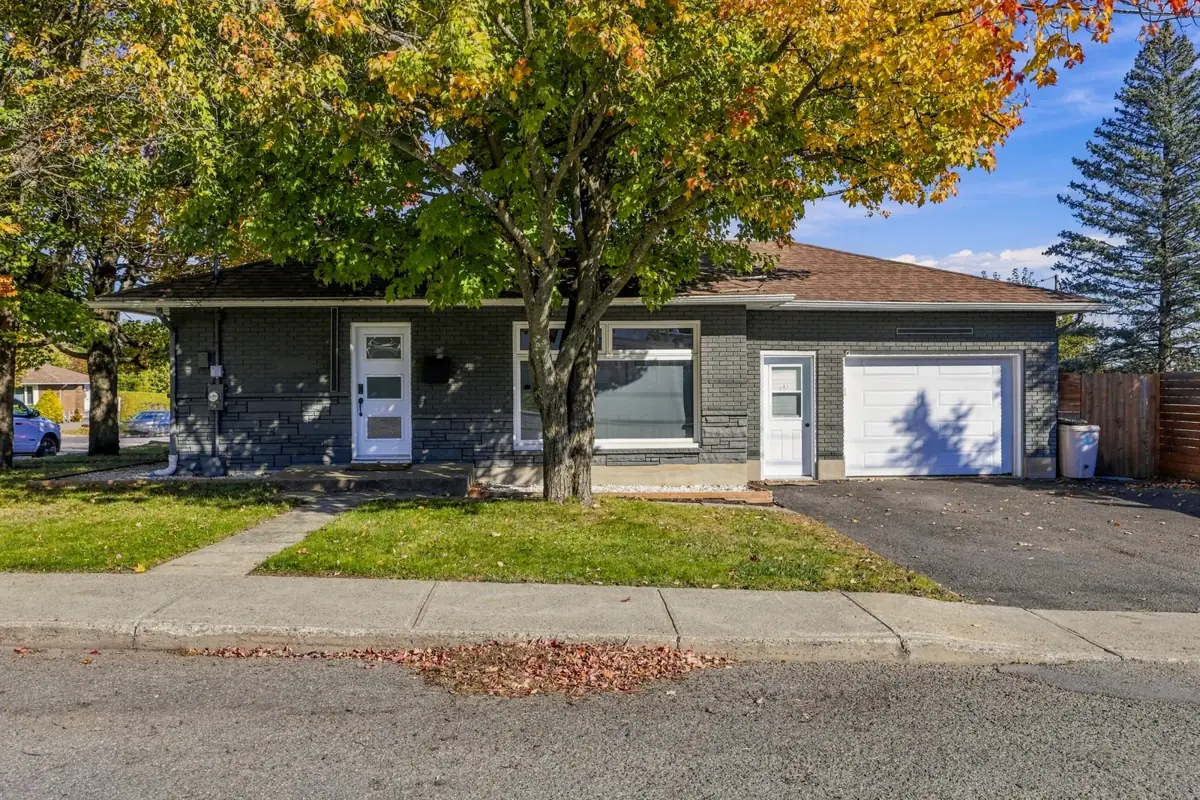
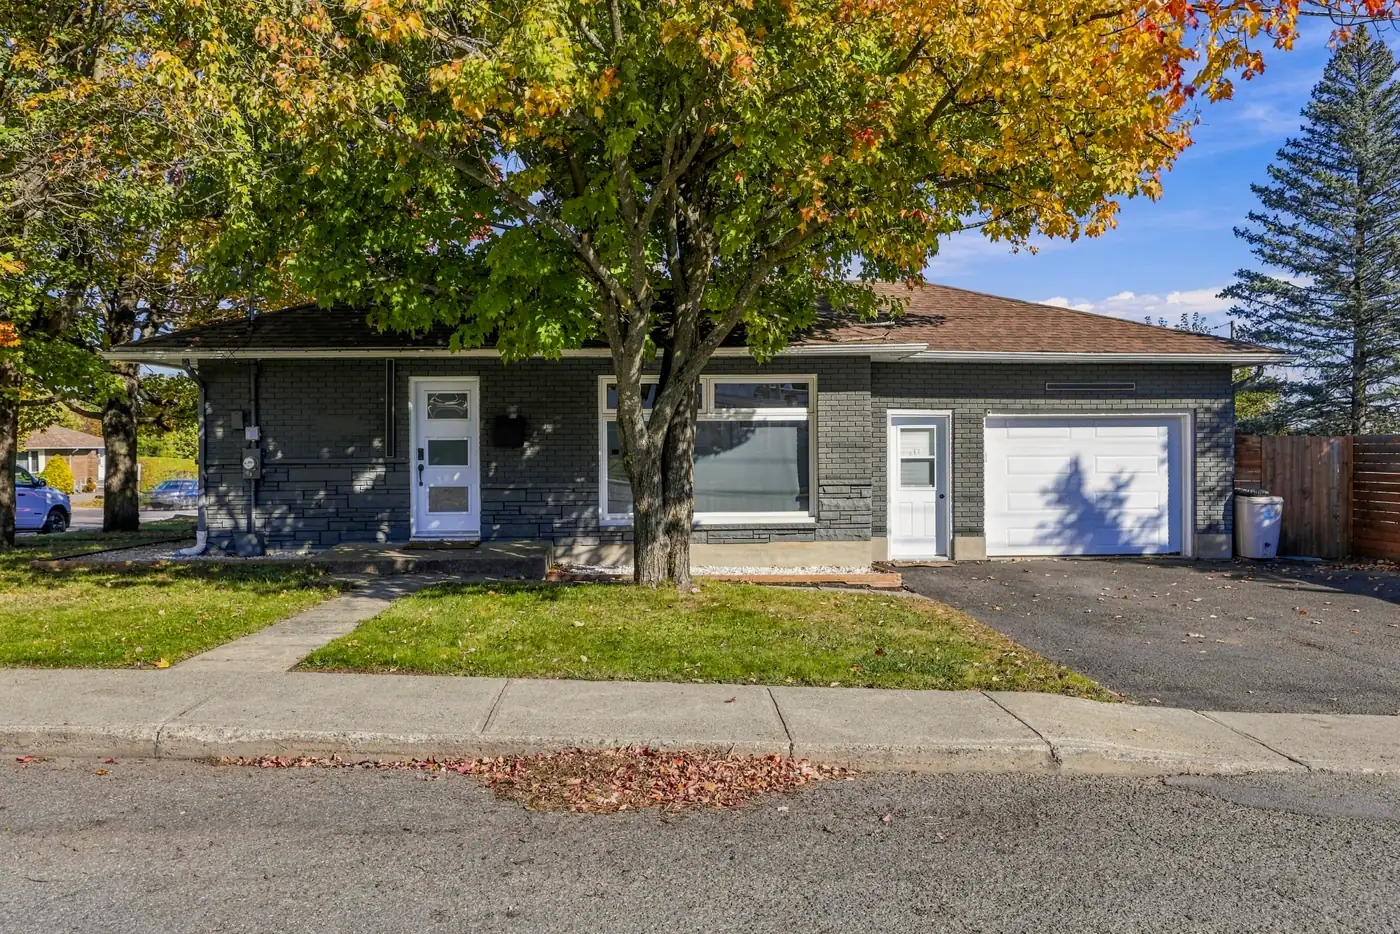
Vendre FR/EN : révision niveau agence + titres dans la voix de Yanis (#119)
* Révision niveau agence: questions sans carte (réponse alignée), photo pleine hauteur bord à bord, bande de photos bord à bord pour les étapes

Claude-Session: https://claude.ai/code/session_019z7BX1MZHCZym3S4A84rNB

* Vendre FR/EN: titres de section dans la voix de Yanis (H1, titre et description inchangés)

Claude-Session: https://claude.ai/code/session_019z7BX1MZHCZym3S4A84rNB

* Photo bungalow allégée

Claude-Session: https://claude.ai/code/session_019z7BX1MZHCZym3S4A84rNB

---------

Changed region(s): [[0.9558, 0.0, 0.9867, 0.0312], [0.8633, 0.0, 0.8942, 0.0312], [0.74, 0.2188, 0.7708, 0.25]]

diff --git a/src/components/CardGrid.tsx b/src/components/CardGrid.tsx
@@ -51,6 +51,22 @@ const CardGrid = ({
 }: CardGridProps) => {
   const bg = background === "alt" ? "bg-[var(--cream)]" : background === "white" ? "bg-white" : "bg-background";
   const [open, setOpen] = React.useState(0);
+  const selectRef = React.useRef<HTMLDivElement>(null);
+  const rowRefs = React.useRef<(HTMLButtonElement | null)[]>([]);
+  const [answerY, setAnswerY] = React.useState(0);
+
+  React.useLayoutEffect(() => {
+    if (layout !== "select") return;
+    const place = () => {
+      const grid = selectRef.current;
+      const row = rowRefs.current[open];
+      if (!grid || !row || !window.matchMedia("(min-width: 1024px)").matches) return setAnswerY(0);
+      setAnswerY(row.getBoundingClientRect().top - grid.getBoundingClientRect().top + 24);
+    };
+    place();
+    window.addEventListener("resize", place);
+    return () => window.removeEventListener("resize", place);
+  }, [layout, open]);
   const trackRef = React.useRef<HTMLDivElement>(null);
   const [active, setActive] = React.useState(0);
   const strikeRef = React.useRef<HTMLDivElement>(null);
@@ -79,44 +95,46 @@ const CardGrid = ({
       <section className={`section-padding ${bg}`}>
         <div className="section-container">
           <h2 className="max-w-[36rem]">{title}</h2>
-          <div className="mt-8 lg:mt-14 lg:grid lg:grid-cols-12 lg:gap-x-10">
+          <div ref={selectRef} className="relative mt-8 lg:mt-16 lg:grid lg:grid-cols-12 lg:gap-x-10">
             {items.map((item, i) => {
               const active = open === i;
               return (
                 <React.Fragment key={item.title}>
-                  <Title className="border-t border-[rgba(0,14,53,0.12)] lg:col-span-6 lg:col-start-1" style={{ gridRow: i + 1 }}>
+                  <Title
+                    className="border-t border-[rgba(0,14,53,0.12)] last-of-type:border-b lg:col-span-6 lg:col-start-1"
+                    style={{ gridRow: i + 1 }}
+                  >
                     <button
                       type="button"
+                      ref={(el) => (rowRefs.current[i] = el)}
                       aria-expanded={active}
                       aria-controls={`cg-answer-${i}`}
                       onClick={() => setOpen(i)}
                       onMouseEnter={() => setOpen(i)}
                       onFocus={() => setOpen(i)}
-                      className={`group flex w-full items-start justify-between gap-6 py-6 text-left [font-family:var(--display)] text-[1.5rem] font-semibold leading-[1.12] tracking-[-0.03em] transition-colors duration-200 lg:py-8 lg:text-[clamp(1.625rem,2.5vw,2.375rem)] ${
+                      className={`flex w-full items-baseline justify-between gap-6 py-6 text-left [font-family:var(--display)] text-[1.5rem] font-semibold leading-[1.1] tracking-[-0.035em] transition-colors duration-200 lg:py-7 lg:text-[clamp(1.75rem,2.6vw,2.5rem)] ${
                         active ? "text-[var(--ink)]" : "text-[rgba(0,14,53,0.5)] hover:text-[var(--ink)]"
                       }`}
                     >
                       <span>{item.title}</span>
-                      {active ? (
-                        <span aria-hidden="true" className="mt-2 inline-block h-3 w-3 shrink-0 rounded-full bg-[var(--action)] lg:mt-4" />
-                      ) : (
-                        <span aria-hidden="true" className="mt-0.5 shrink-0 text-[1.75rem] font-light leading-none text-[rgba(0,14,53,0.45)] lg:invisible">+</span>
-                      )}
+                      <span aria-hidden="true" className="relative h-4 w-4 shrink-0 lg:hidden">
+                        <span className="absolute left-0 top-1/2 h-[1.5px] w-4 -translate-y-1/2 bg-current" />
+                        <span className={`absolute left-1/2 top-0 h-4 w-[1.5px] -translate-x-1/2 bg-current transition-transform duration-200 ${active ? "scale-y-0" : "scale-y-100"}`} />
+                      </span>
                     </button>
                   </Title>
                   <div
                     id={`cg-answer-${i}`}
+                    className={`${active ? "block" : "hidden"} pb-8 lg:col-span-5 lg:col-start-8 lg:row-start-1 lg:pb-0`}
                     style={{ gridRow: `1 / span ${items.length}` }}
-                    className={`${active ? "block" : "hidden"} pb-7 lg:col-span-5 lg:col-start-8 lg:self-start lg:pb-0`}
                   >
-                    <div className="lg:sticky lg:top-28 lg:rounded-[1.5rem] lg:bg-[var(--ink)] lg:p-12">
-                      <p className={`text-[1rem] leading-[1.65] text-[#4A5475] lg:[font-family:var(--display)] ${item.text.split(" ").length > 32 ? "lg:text-[1.3125rem]" : "lg:text-[1.625rem]"} lg:font-medium lg:leading-[1.35] lg:tracking-[-0.02em] lg:text-[var(--cream)]`}>
+                    <div
+                      className="lg:border-l-2 lg:border-[var(--action)] lg:pl-8 lg:transition-transform lg:duration-300 lg:ease-[cubic-bezier(0.22,1,0.36,1)]"
+                      style={{ transform: answerY ? `translateY(${answerY}px)` : undefined }}
+                    >
+                      <p className={`max-w-[30rem] text-[1rem] leading-[1.65] text-[#4A5475] lg:[font-family:var(--display)] lg:font-medium lg:leading-[1.4] lg:tracking-[-0.015em] lg:text-[var(--ink)] ${item.text.split(" ").length > 32 ? "lg:text-[1.25rem]" : "lg:text-[1.5rem]"}`}>
                         {item.text}
                       </p>
-                      <div className="mt-10 hidden items-center gap-3 border-t border-[rgba(247,244,238,0.14)] pt-6 lg:flex">
-                        <img src={yanisAvatar} alt="" width={40} height={40} loading="lazy" className="h-10 w-10 rounded-full object-cover" />
-                        <span className="text-[0.875rem] font-medium text-[rgba(247,244,238,0.78)]">Yanis Gauthier-Sigeris</span>
-                      </div>
                     </div>
                   </div>
                 </React.Fragment>
@@ -130,45 +148,48 @@ const CardGrid = ({
 
   if (layout === "strike") {
     return (
-      <section className={`section-padding ${bg}`}>
-        <div className="section-container lg:grid lg:grid-cols-12 lg:gap-x-10">
-          {image && (
-            <div className="lg:col-span-5">
-              <img
-                src={image.src}
-                alt={image.alt}
-                width={image.width}
-                height={image.height}
-                loading="lazy"
-                decoding="async"
-                className="aspect-[16/10] w-full rounded-[1.25rem] object-cover lg:sticky lg:top-28 lg:aspect-[4/5] lg:rounded-[1.5rem]"
-              />
-            </div>
-          )}
-          <div ref={strikeRef} className={`mt-10 lg:mt-0 ${image ? "lg:col-span-6 lg:col-start-7" : "lg:col-span-12"}`}>
-            <h2 className="max-w-[36rem]">{title}</h2>
-            <div className="mt-8 lg:mt-12">
-              {items.map((item, i) => (
-                <div key={item.title} className="border-t border-[rgba(0,14,53,0.12)] py-7 lg:py-9">
-                  <Title className="[font-family:var(--display)] text-[2.5rem] font-semibold leading-[1] tracking-[-0.045em] text-[var(--ink)] lg:text-[clamp(3rem,5.2vw,4.75rem)]">
-                    <span className="relative inline-block">
-                      {item.title}
-                      <span
-                        aria-hidden="true"
-                        style={{ transitionDelay: `${i * 160}ms` }}
-                        className={`strike-line absolute left-[-0.04em] right-[-0.04em] top-[54%] h-[0.075em] origin-left rounded-full bg-[var(--action)] transition-transform duration-[700ms] ease-[cubic-bezier(0.65,0,0.35,1)] ${drawn ? "scale-x-100" : "scale-x-0"}`}
-                      />
-                    </span>
-                  </Title>
-                  <p className="mt-4 max-w-[30rem] text-[1rem] leading-[1.6] text-[#4A5475] lg:text-[1.0625rem]">{item.text}</p>
-                </div>
-              ))}
-            </div>
+      <section className={`${bg} lg:grid lg:grid-cols-2`}>
+        {image && (
+          <div className="relative aspect-[4/3] lg:aspect-auto">
+            <img
+              src={image.src}
+              alt={image.alt}
+              width={image.width}
+              height={image.height}
+              loading="lazy"
+              decoding="async"
+              className="absolute inset-0 h-full w-full object-cover object-[50%_35%]"
+            />
+          </div>
+        )}
+        <div
+          ref={strikeRef}
+          className={`px-5 sm:px-6 md:px-8 ${image ? "lg:pl-20 lg:pr-[max(2rem,calc((100vw-1240px)/2+2rem))]" : ""}`}
+          style={{ paddingTop: "var(--section-padding-lg)", paddingBottom: "var(--section-padding-lg)" }}
+        >
+          <h2 className="max-w-[30rem]">{title}</h2>
+          <div className="mt-10 lg:mt-14">
+            {items.map((item, i) => (
+              <div key={item.title} className={i > 0 ? "mt-10 lg:mt-14" : ""}>
+                <Title className="[font-family:var(--display)] text-[2.75rem] font-semibold leading-[0.95] tracking-[-0.05em] text-[var(--ink)] lg:text-[clamp(3.25rem,5vw,5rem)]">
+                  <span className="relative inline-block">
+                    {item.title}
+                    <span
+                      aria-hidden="true"
+                      style={{ transitionDelay: `${i * 180}ms` }}
+                      className={`strike-line absolute left-[-0.03em] right-[-0.03em] top-[52%] h-[3px] origin-left bg-[var(--action)] transition-transform duration-[650ms] ease-[cubic-bezier(0.65,0,0.35,1)] lg:h-[4px] ${drawn ? "scale-x-100" : "scale-x-0"}`}
+                    />
+                  </span>
+                </Title>
+                <p className="mt-4 max-w-[28rem] text-[1.0625rem] leading-[1.55] text-[#4A5475]">{item.text}</p>
+              </div>
+            ))}
           </div>
         </div>
       </section>
     );
   }
+
 
   const spans = layoutFor(items.length);
 

diff --git a/src/components/ProcessSteps.tsx b/src/components/ProcessSteps.tsx
@@ -14,7 +14,7 @@ interface ProcessStepsProps {
   background?: "default" | "alt" | "white";
   /** Fond bleu nuit pour créer une pause visuelle dans la page. */
   tone?: "default" | "night";
-  /** Optional real photo per step: steps then descend like a staircase. */
+  /** Optional real photo per step: edge-to-edge photo strip. */
   images?: { src: string; alt: string; width: number; height: number }[];
 }
 
@@ -30,6 +30,35 @@ const ProcessSteps = ({
   const lang = useLanguage();
   const resolvedOverline = overline ?? (lang === "en" ? "The process" : "Le processus");
   const resolvedTitle = title ?? (lang === "en" ? "How it works" : "Comment ça fonctionne");
+  if (images) {
+    return (
+      <section className={`section-padding ${night ? "process-night" : background === "alt" ? "bg-[var(--cream)]" : background === "white" ? "bg-white" : "bg-background"}`}>
+        <div className="section-container">
+          <h2 className="max-w-[40rem]" style={night ? { color: "var(--cream)" } : undefined}>{resolvedTitle}</h2>
+        </div>
+        <ol className="mt-10 flex snap-x snap-mandatory gap-[3px] overflow-x-auto lg:mt-14 lg:grid lg:grid-cols-3 lg:overflow-visible">
+          {steps.map((s, i) => (
+            <li key={s.num} className="w-[86vw] shrink-0 snap-start lg:w-auto">
+              <img
+                src={images[i]?.src}
+                alt={images[i]?.alt ?? ""}
+                width={images[i]?.width}
+                height={images[i]?.height}
+                loading="lazy"
+                decoding="async"
+                className="aspect-[4/5] w-full object-cover lg:aspect-[5/6]"
+              />
+              <div className={`px-5 pt-7 sm:px-6 lg:pr-10 ${i === 0 ? "lg:pl-[max(2rem,calc((100vw-1240px)/2+2rem))]" : "lg:pl-10"}`}>
+                <p aria-hidden="true" className="[font-family:var(--display)] text-[0.9375rem] font-semibold tabular-nums text-[var(--action)]">{i + 1}</p>
+                <h3 className="mt-2 [font-family:var(--display)] text-[1.625rem] font-semibold leading-[1.1] tracking-[-0.03em] lg:text-[1.875rem]" style={night ? { color: "var(--cream)" } : undefined}>{s.title}</h3>
+                <p className={`mt-3 max-w-[24rem] text-[0.9375rem] leading-[1.6] ${night ? "text-[rgba(247,244,238,0.78)]" : "text-muted-foreground"}`}>{s.desc}</p>
+              </div>
+            </li>
+          ))}
+        </ol>
+      </section>
+    );
+  }
   return (
   <section className={`section-padding ${night ? "process-night" : background === "alt" ? "bg-[var(--cream)]" : background === "white" ? "bg-white" : "bg-background"}`}>
     <div className="section-container">
@@ -38,31 +67,6 @@ const ProcessSteps = ({
       >
         <SectionHeading overline={resolvedOverline} title={resolvedTitle} />
       </div>
-      {images ? (
-        <ol className="scroll-px-5 sm:scroll-px-6 md:scroll-px-8 lg:scroll-px-0 -mx-5 flex snap-x snap-mandatory gap-4 overflow-x-auto px-5 pb-2 sm:-mx-6 sm:px-6 md:-mx-8 md:px-8 lg:mx-0 lg:grid lg:grid-cols-3 lg:gap-8 lg:overflow-visible lg:px-0 lg:pb-0">
-          {steps.map((s, i) => (
-            <li
-              key={s.num}
-              className={`w-[78%] max-w-[20rem] shrink-0 snap-start sm:w-[55%] lg:w-auto lg:max-w-none ${i === 1 ? "lg:mt-24" : i === 2 ? "lg:mt-48" : ""}`}
-            >
-              <img
-                src={images[i]?.src}
-                alt={images[i]?.alt ?? ""}
-                width={images[i]?.width}
-                height={images[i]?.height}
-                loading="lazy"
-                decoding="async"
-                className="aspect-[4/5] w-full rounded-[1.25rem] object-cover lg:rounded-[1.5rem]"
-              />
-              <div className="mt-6 flex items-baseline gap-4">
-                <span aria-hidden="true" className="[font-family:var(--display)] text-[0.9375rem] font-semibold tabular-nums text-[var(--action)]">{s.num}</span>
-                <h3 className="text-[1.375rem] lg:text-[1.5rem]" style={night ? { color: "var(--cream)" } : undefined}>{s.title}</h3>
-              </div>
-              <p className={`mt-3 text-[0.9375rem] leading-[1.6] ${night ? "text-[rgba(247,244,238,0.78)]" : "text-muted-foreground"}`}>{s.desc}</p>
-            </li>
-          ))}
-        </ol>
-      ) : (
       <div className="grid gap-6 sm:gap-7 sm:grid-cols-3">
         {steps.map((s, i) => (
           <div
@@ -75,7 +79,6 @@ const ProcessSteps = ({
           </div>
         ))}
       </div>
-      )}
     </div>
   </section>
   );

diff --git a/src/pages/en/SellerPageEn.tsx b/src/pages/en/SellerPageEn.tsx
@@ -64,7 +64,7 @@ const SellerPageEn = () => (
     heroBgImage={heroImg} />
 
     <ContentBlock narrow split background="alt">
-      <SectionHeading overline="Local strategy" title="Adapting your sale to your local market" />
+      <SectionHeading overline="Local strategy" title="Pricing starts with sales in your area, not a regional average" />
       <p className="prose-body mt-5" style={{ lineHeight: 1.85 }}>
         A house in Aylmer doesn't compare to one in Buckingham, and a condo doesn't sell like a single-family home. Before we talk price, I look at what sold near you, in your type of property, over the last few months.
       </p>
@@ -76,15 +76,16 @@ const SellerPageEn = () => (
       </p>
     </ContentBlock>
 
-<CardGrid background="white" overline="Your questions" title="You're probably asking yourself these questions" items={painPoints} variant="icon-inline" layout="select" />
+<CardGrid background="white" overline="Your questions" title="Four questions to settle before you list" items={painPoints} variant="icon-inline" layout="select" />
     <InlineCTA text="First step: find out what your property is worth. It's free, with no commitment." buttonLabel="Free Home Valuation →" href="/en/home-valuation/" />
-    <CardGrid title="What sellers want to avoid" items={fears} columns={3} background="alt" variant="icon-top" layout="strike" image={{ src: photoWinter, alt: "Bungalow in Gatineau in the fall", width: 1200, height: 800 }} />
+    <CardGrid title="Three mistakes that cost sellers money" items={fears} columns={3} background="alt" variant="icon-top" layout="strike" image={{ src: photoWinter, alt: "Bungalow in Gatineau in the fall", width: 1400, height: 933 }} />
     <ContentBlock narrow split>
-      <SectionHeading overline="Before selling" title="Know where you stand first" />
+      <SectionHeading overline="Before selling" title="Start by finding out what your home is worth" />
       <p className="prose-body mt-5">Before selling, you probably want to know one thing: what your home is worth, with no pressure. We start there. Then we look at your timing and at what the market in your area allows.</p>
       <p className="prose-body mt-4">I've been helping sellers across the Outaouais since 2017, and I know a good sale takes preparation. It all begins with a value based on local comparables. Then come the price and the improvements that pay off, followed by marketing aimed at the right buyers, including those from Ottawa looking to cross the river.</p>
     </ContentBlock>
     <ProcessSteps
+      title="From the first analysis to signing at the notary"
       steps={steps}
       tone="night"
       images={[
@@ -92,7 +93,7 @@ const SellerPageEn = () => (
         { src: photoKitchen, alt: "Kitchen with blue cabinets", width: 1200, height: 800 },
         { src: photoBrick, alt: "Front entrance of a house in Aylmer", width: 1200, height: 800 },
       ]} />
-    <ReviewSection overline="Seller testimonials" title="What my sellers say" reviews={getReviewsByCategory("seller").slice(0, 2)} columns={2} quote background="white" />
+    <ReviewSection overline="Seller testimonials" title="My sellers, in their own words" reviews={getReviewsByCategory("seller").slice(0, 2)} columns={2} quote background="white" />
     <FunnelNextStep background="white" overline="Next step" title="Where to start?" subtitle="Every seller has a different situation. Choose the step that fits yours." steps={nextSteps} />
     <GuideInlineCTA lang="en" guideType="seller_guide" headline="Thinking about selling? Get the seller guide." text="Everything you need to know to sell at the right price in Gatineau, in a clear guide sent to your email." ctaLabel="Get the Seller Guide" />
     <FAQSection items={faq} />

diff --git a/src/pages/SellerPage.tsx b/src/pages/SellerPage.tsx
@@ -78,7 +78,7 @@ const SellerPage = () =>
     heroBgImage={heroImg} />
 
     <ContentBlock narrow split background="alt">
-      <SectionHeading overline="Stratégie locale" title="Adapter votre vente au marché de votre secteur" />
+      <SectionHeading overline="Stratégie locale" title="Un prix qui part des ventes de votre secteur, pas d'une moyenne régionale" />
       <p className="prose-body mt-5" style={{ lineHeight: 1.85 }}>
         Une maison d'Aylmer ne se compare pas à une maison de Buckingham, et un condo ne se vend pas comme une unifamiliale. Avant de parler de prix, je regarde ce qui s'est vendu près de chez vous, dans votre type de propriété, ces derniers mois.
       </p>
@@ -93,7 +93,7 @@ const SellerPage = () =>
 <CardGrid
     background="white"
     overline="Vos questions"
-    title="Vous vous posez probablement ces questions"
+    title="Quatre questions à régler avant de mettre en vente"
     items={painPoints}
     variant="icon-inline"
     layout="select" />
@@ -106,19 +106,19 @@ const SellerPage = () =>
   
 
     <CardGrid
-    title="Ce que les vendeurs veulent éviter"
+    title="Trois erreurs qui coûtent cher à un vendeur"
     items={fears}
     columns={3}
     background="alt"
     variant="icon-top"
     layout="strike"
-    image={{ src: photoWinter, alt: "Bungalow à Gatineau, en automne", width: 1200, height: 800 }} />
+    image={{ src: photoWinter, alt: "Bungalow à Gatineau, en automne", width: 1400, height: 933 }} />
   
 
     <ContentBlock narrow split>
       <SectionHeading
       overline="Avant de vendre"
-      title="Savoir où vous en êtes, à votre rythme" />
+      title="Commencez par savoir combien vaut votre propriété" />
     
       <p className="prose-body mt-5">
         Avant de vendre, vous voulez probablement savoir une chose : ce que vaut votre maison, sans pression. On part de là. Ensuite, on regarde votre calendrier et ce que le marché de votre secteur permet.
@@ -129,6 +129,7 @@ const SellerPage = () =>
     </ContentBlock>
 
     <ProcessSteps
+      title="De la première analyse à la signature chez le notaire"
       steps={steps}
       tone="night"
       images={[
@@ -139,7 +140,7 @@ const SellerPage = () =>
 
     <ReviewSection
     overline="Témoignages vendeurs"
-    title="Ce que disent mes vendeurs"
+    title="Mes vendeurs, dans leurs mots"
     reviews={getReviewsByCategory("seller").slice(0, 2)}
     columns={2}
     quote
@@ -184,7 +185,7 @@ const SellerPage = () =>
 
     <RelatedPages
       overline="À lire aussi"
-      title="Articles et ressources pour vendeurs"
+      title="À lire avant de vendre"
       pages={[
         { title: "Quand vendre sa maison à Gatineau", text: "Le bon moment pour vendre en Outaouais.", href: "/quand-vendre-a-gatineau/" },
         { title: "Home staging à Gatineau", text: "Conseils pour préparer sa vente.", href: "/blogue/home-staging-vendre-plus-vite-gatineau/" },
